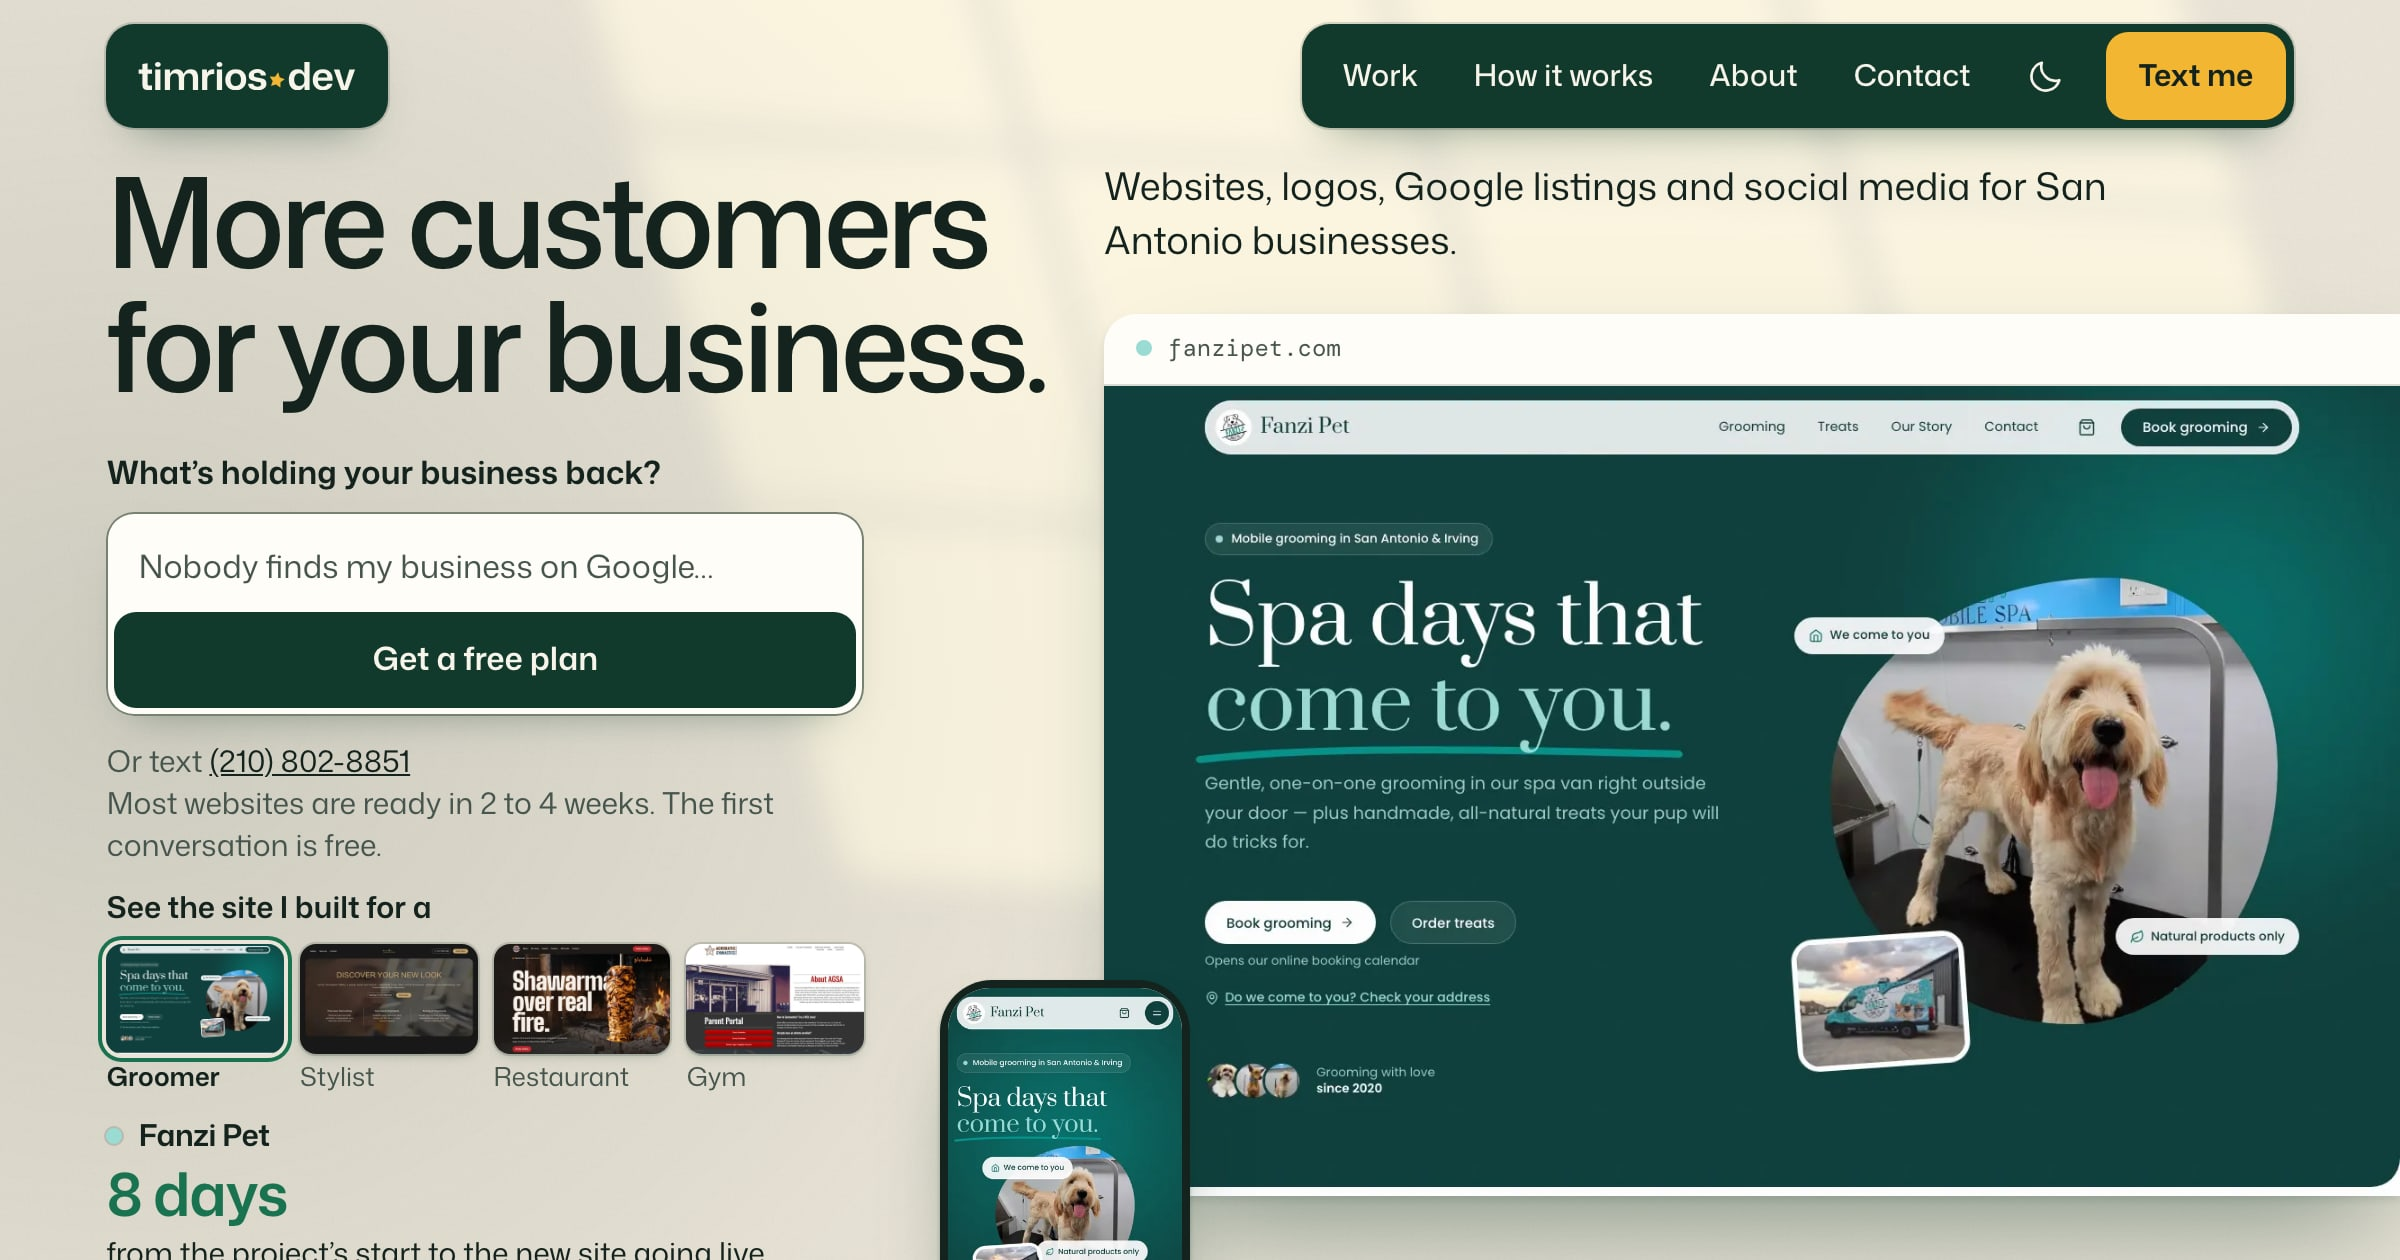
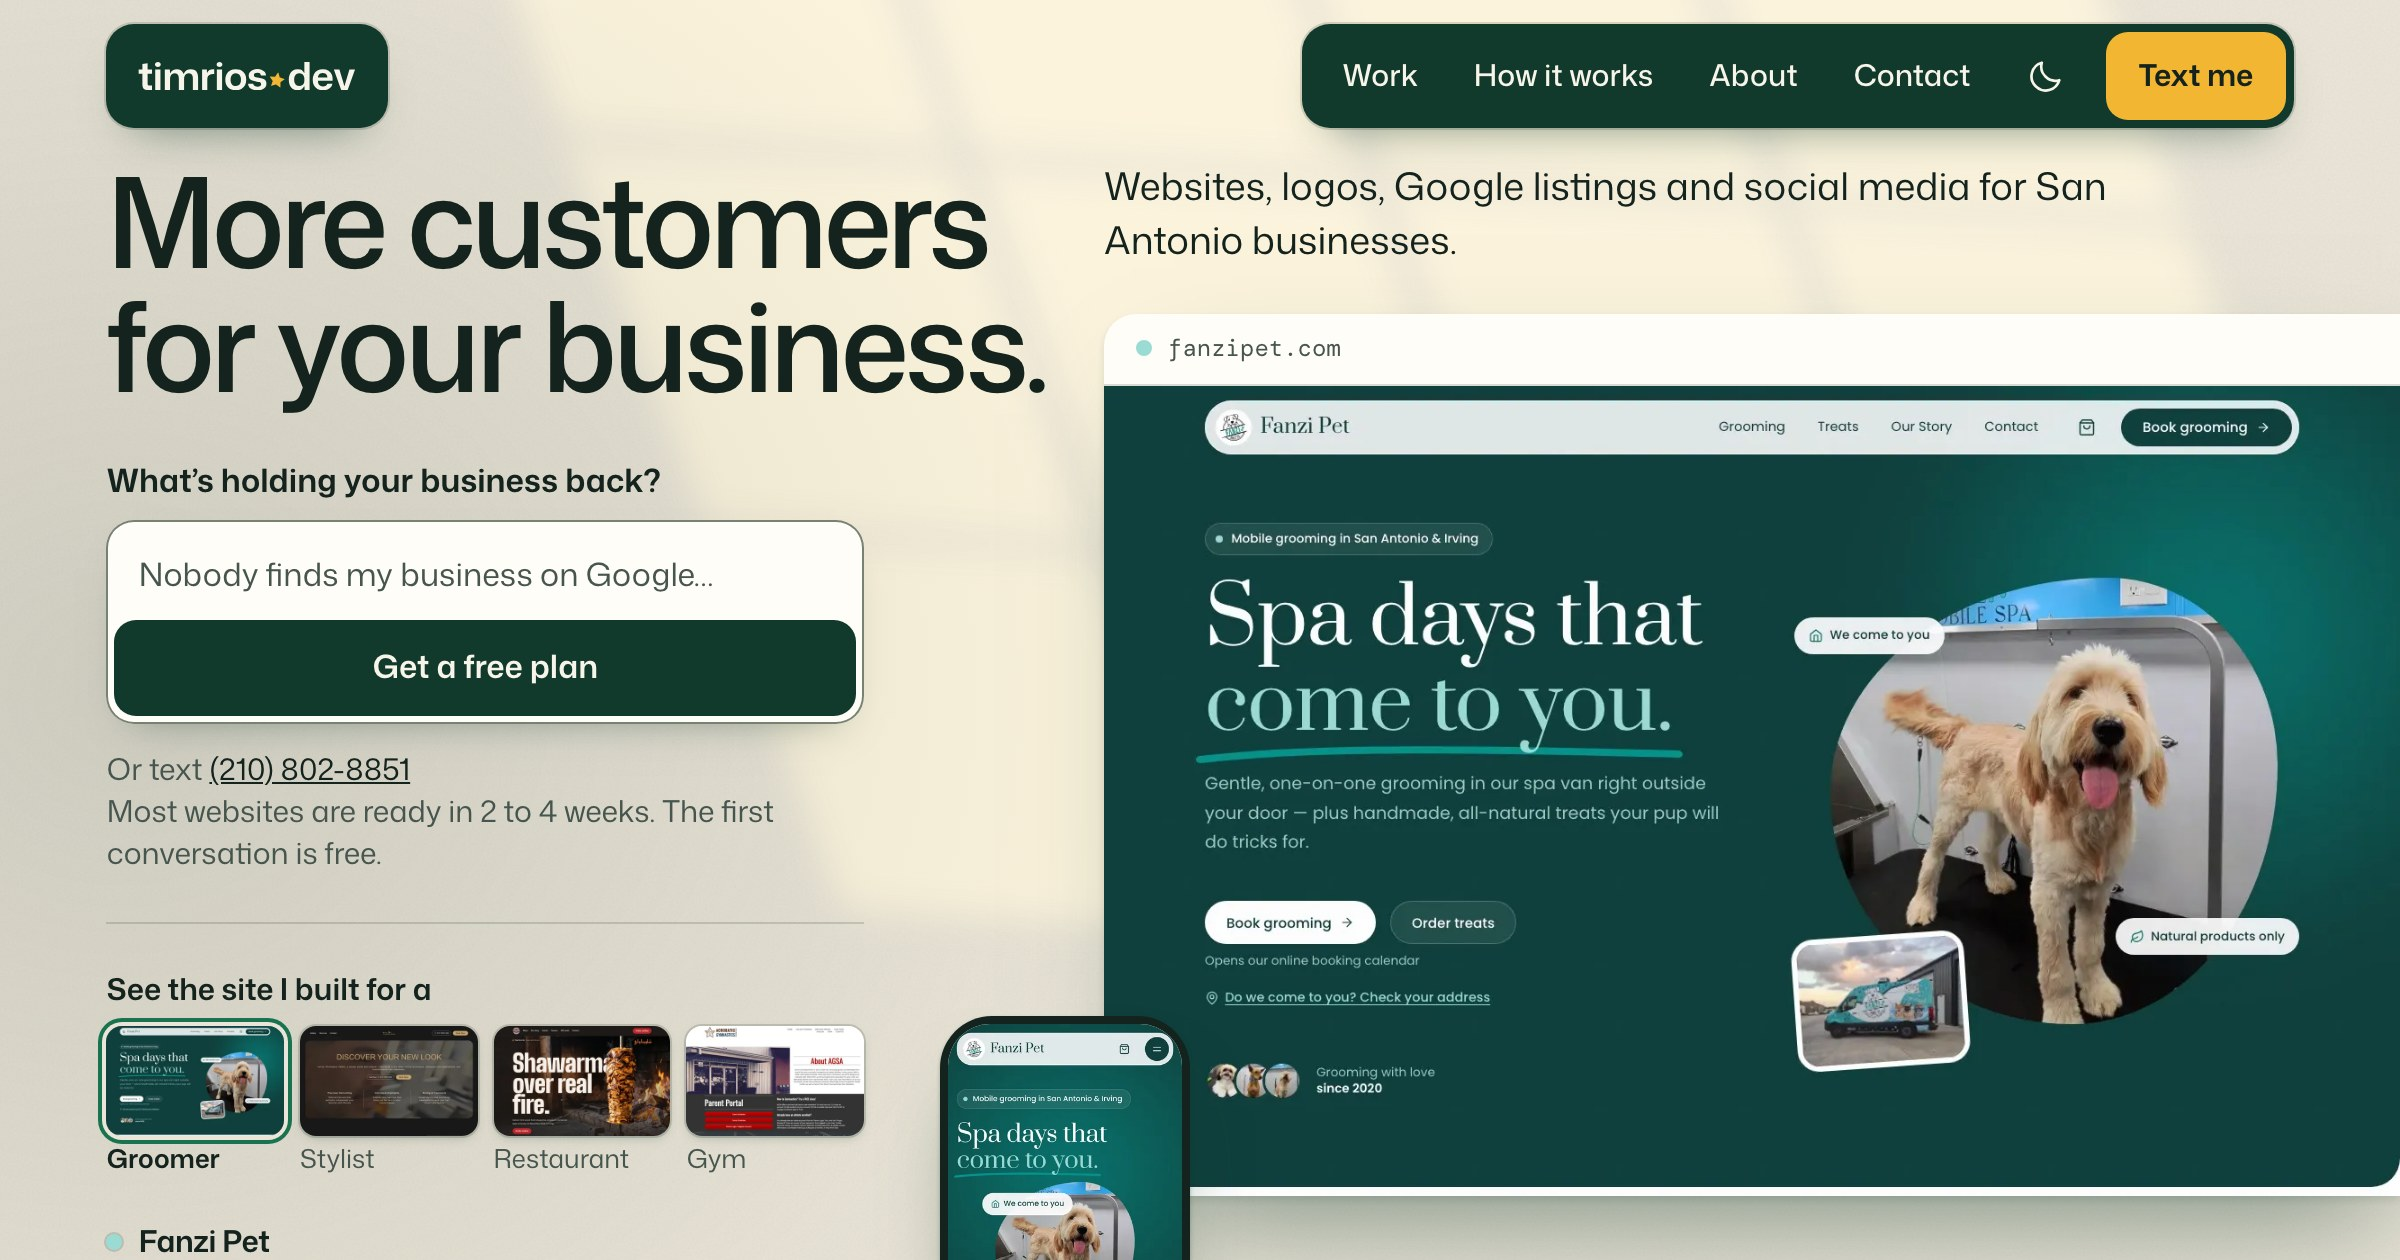
Desktop hero: space the left column as groups, keep Read the story on the first screen

Changed region(s): [[0.0312, 0.7119, 0.5, 1.0], [0.0312, 0.3714, 0.375, 0.681]]

diff --git a/DESIGN.md b/DESIGN.md
@@ -305,7 +305,10 @@ switches instantly, Reels start paused, and every transition is instant.
 - **WindowLight:** the fixed panes of light behind every page. Hidden in print.
 - **HomeHero:** the headline, what Tim does, the ask box, then the work. Phones: a real phone beside its switcher.
   Desktop: the offset window with a phone, thumbnails under the ask box. Finished sites only, whole, never a before
-  on the first screen.
+  on the first screen. The desktop column is three groups, not an even list: the headline; the ask box with its note
+  (`--space-3` apart); the work (switcher, result, source). A hairline in `--rule` opens the work group, with
+  `--hero-gap` either side of it (`--space-5` to `--space-6`, by screen height). "Read the story" sits beside the result
+  figure on desktop, so it stays on the first screen on short laptops; on phones it follows the source line.
 - **AskBox:** a labeled field with typed examples and a "Get a free plan" button, posting to `/contact/?need=…`, which
   prefills the message.
 - **ResultsBand:** home: the featured results (`band` text in `projects.ts`), each naming its kind of business, two
